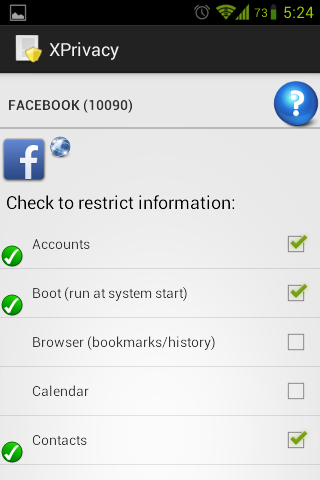
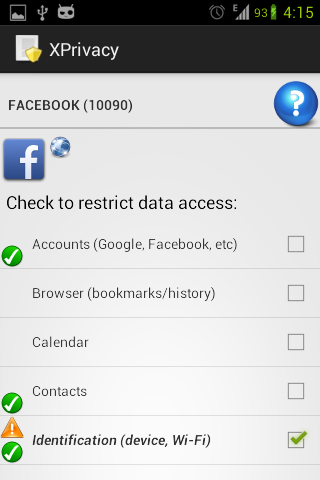
Move start on boot to expert mode

diff --git a/src/biz/bokhorst/xprivacy/XRestriction.java b/src/biz/bokhorst/xprivacy/XRestriction.java
@@ -11,7 +11,6 @@ import android.content.ContentValues;
 import android.content.Context;
 import android.content.pm.PackageInfo;
 import android.content.pm.PackageManager;
-import android.content.pm.PermissionInfo;
 import android.database.Cursor;
 import android.util.Log;
 
@@ -36,11 +35,14 @@ public class XRestriction {
 
 	public final static int cUidAndroid = 1000;
 
+	public final static boolean cExpert = false;
+
 	private static Map<String, List<String>> mRestrictions = new LinkedHashMap<String, List<String>>();
 
 	static {
 		mRestrictions.put(cAccounts, new ArrayList<String>());
-		mRestrictions.put(cBoot, new ArrayList<String>());
+		if (cExpert)
+			mRestrictions.put(cBoot, new ArrayList<String>());
 		mRestrictions.put(cBrowser, new ArrayList<String>());
 		mRestrictions.put(cCalendar, new ArrayList<String>());
 		mRestrictions.put(cContacts, new ArrayList<String>());
@@ -55,7 +57,8 @@ public class XRestriction {
 		mRestrictions.get(cAccounts).add("GET_ACCOUNTS");
 		mRestrictions.get(cAccounts).add("USE_CREDENTIALS");
 		mRestrictions.get(cAccounts).add("MANAGE_ACCOUNTS");
-		mRestrictions.get(cBoot).add("RECEIVE_BOOT_COMPLETED");
+		if (cExpert)
+			mRestrictions.get(cBoot).add("RECEIVE_BOOT_COMPLETED");
 		mRestrictions.get(cBrowser).add("READ_HISTORY_BOOKMARKS");
 		mRestrictions.get(cBrowser).add("GLOBAL_SEARCH");
 		mRestrictions.get(cCalendar).add("READ_CALENDAR");

diff --git a/src/biz/bokhorst/xprivacy/XPrivacy.java b/src/biz/bokhorst/xprivacy/XPrivacy.java
@@ -149,14 +149,16 @@ public class XPrivacy implements IXposedHookLoadPackage, IXposedHookZygoteInit {
 				"android.net.wifi.WifiInfo");
 
 		// Intent receive: calling
-		hook(new XActivityThread("handleReceiver", XRestriction.cBoot, new String[] { "RECEIVE_BOOT_COMPLETED" },
-				Intent.ACTION_BOOT_COMPLETED), "android.app.ActivityThread", false);
+		if (XRestriction.cExpert)
+			hook(new XActivityThread("handleReceiver", XRestriction.cBoot, new String[] { "RECEIVE_BOOT_COMPLETED" },
+					Intent.ACTION_BOOT_COMPLETED), "android.app.ActivityThread", false);
 		hook(new XActivityThread("handleReceiver", XRestriction.cPhone, new String[] { "PROCESS_OUTGOING_CALLS" },
 				Intent.ACTION_NEW_OUTGOING_CALL), "android.app.ActivityThread", false);
 		hook(new XActivityThread("handleReceiver", XRestriction.cPhone, new String[] { "READ_PHONE_STATE" },
 				TelephonyManager.ACTION_PHONE_STATE_CHANGED), "android.app.ActivityThread", false);
-		hook(new XActivityThread("installContentProviders", XRestriction.cBoot, new String[] {}, null),
-				"android.app.ActivityThread", false);
+		if (XRestriction.cExpert)
+			hook(new XActivityThread("installContentProviders", XRestriction.cBoot, new String[] {}, null),
+					"android.app.ActivityThread", false);
 
 		// Intent send: media
 		hook(new XActivity("startActivityForResult", XRestriction.cMedia, new String[] { "CAMERA" },

diff --git a/README.md b/README.md
@@ -40,9 +40,6 @@ XPrivacy will also display if an application has internet access
 and if an application has Android permissions to access data in a data category
 (not in the category browser, since checking permissions for all applications is quite slow).
 
-XPrivacy also allows you to prevent starting an application at boot (when Android starts),
-which not only prevents leaking data at that moment, but will also make your device start faster.
-
 XPrivacy is accessible for each application from the Android manage apps menu.
 The category browser is accessible from the application list or application drawer.
 
@@ -66,9 +63,9 @@ If you have any question or want to request a new feature, you can leave a messa
 Screenshots
 -----------
 
-![Manage apps](https://raw.github.com/M66B/XPrivacy/master/screenshots/manage_apps.png)![App details](https://raw.github.com/M66B/XPrivacy/master/screenshots/app_details.png)
-![Batch edit](https://raw.github.com/M66B/XPrivacy/master/screenshots/batch_edit_select.png)![Batch edit](https://raw.github.com/M66B/XPrivacy/master/screenshots/batch_edit_apps.png)
-![Batch edit](https://raw.github.com/M66B/XPrivacy/master/screenshots/help.png)
+![Manage apps](https://raw.github.com/M66B/XPrivacy/master/screenshots/xposed.png)![Manage apps](https://raw.github.com/M66B/XPrivacy/master/screenshots/manage_apps.png)
+![App details](https://raw.github.com/M66B/XPrivacy/master/screenshots/app_details.png)![Batch edit](https://raw.github.com/M66B/XPrivacy/master/screenshots/batch_edit_select.png)
+![Batch edit](https://raw.github.com/M66B/XPrivacy/master/screenshots/batch_edit_apps.png)![Batch edit](https://raw.github.com/M66B/XPrivacy/master/screenshots/help.png)
 
 Data restrictions
 -----------------
@@ -90,12 +87,11 @@ Currently implemented:
 * Accounts (auth token)
 * Read sdcard (revoke permission)
 * Restriction management
-* Batch edit restrictions
+* Category browser
 * Default restrict new apps
 
 Planned:
 
-* System log
 * Battery info
 * Application info
 
